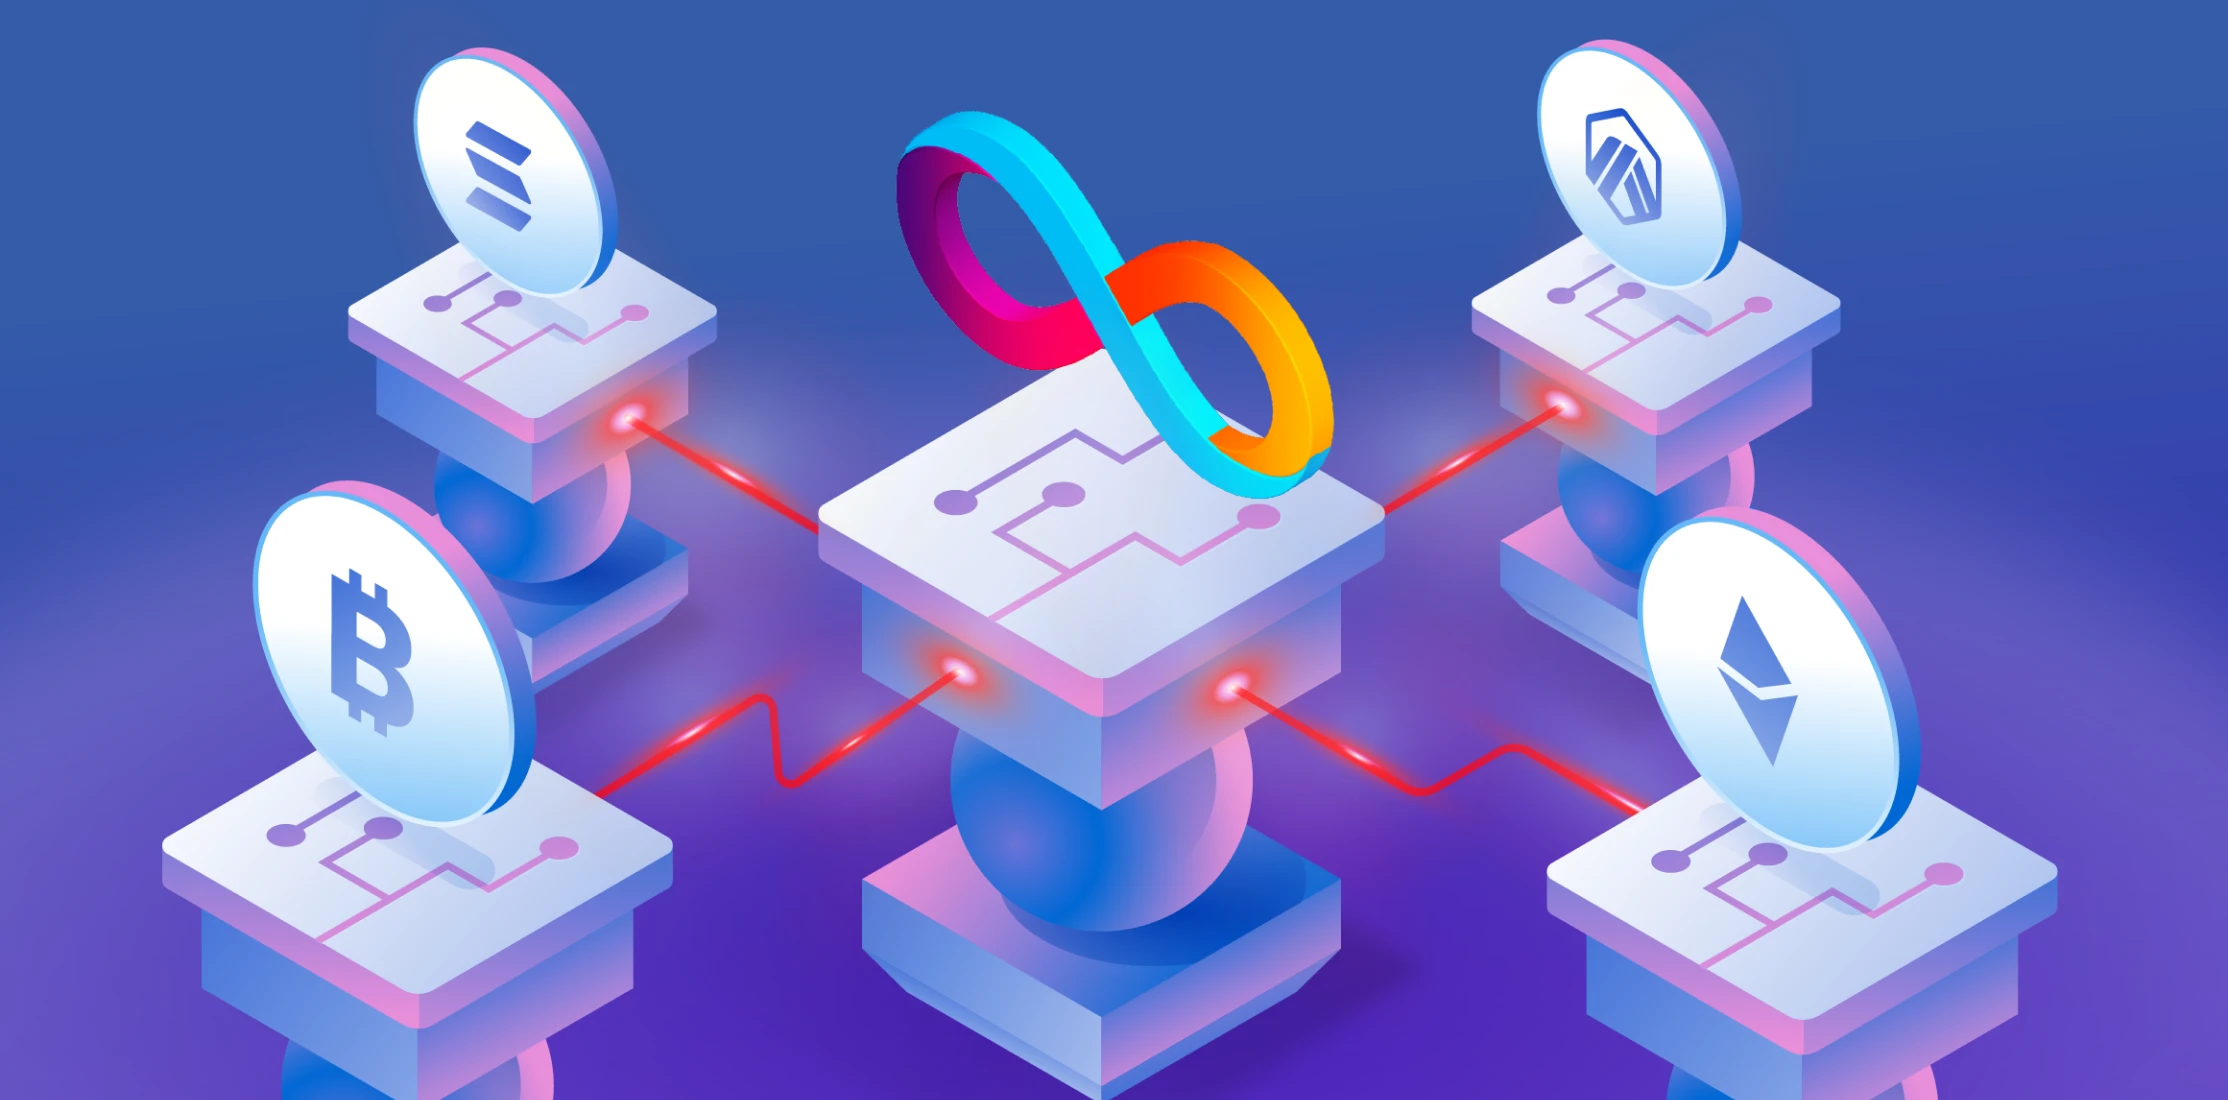
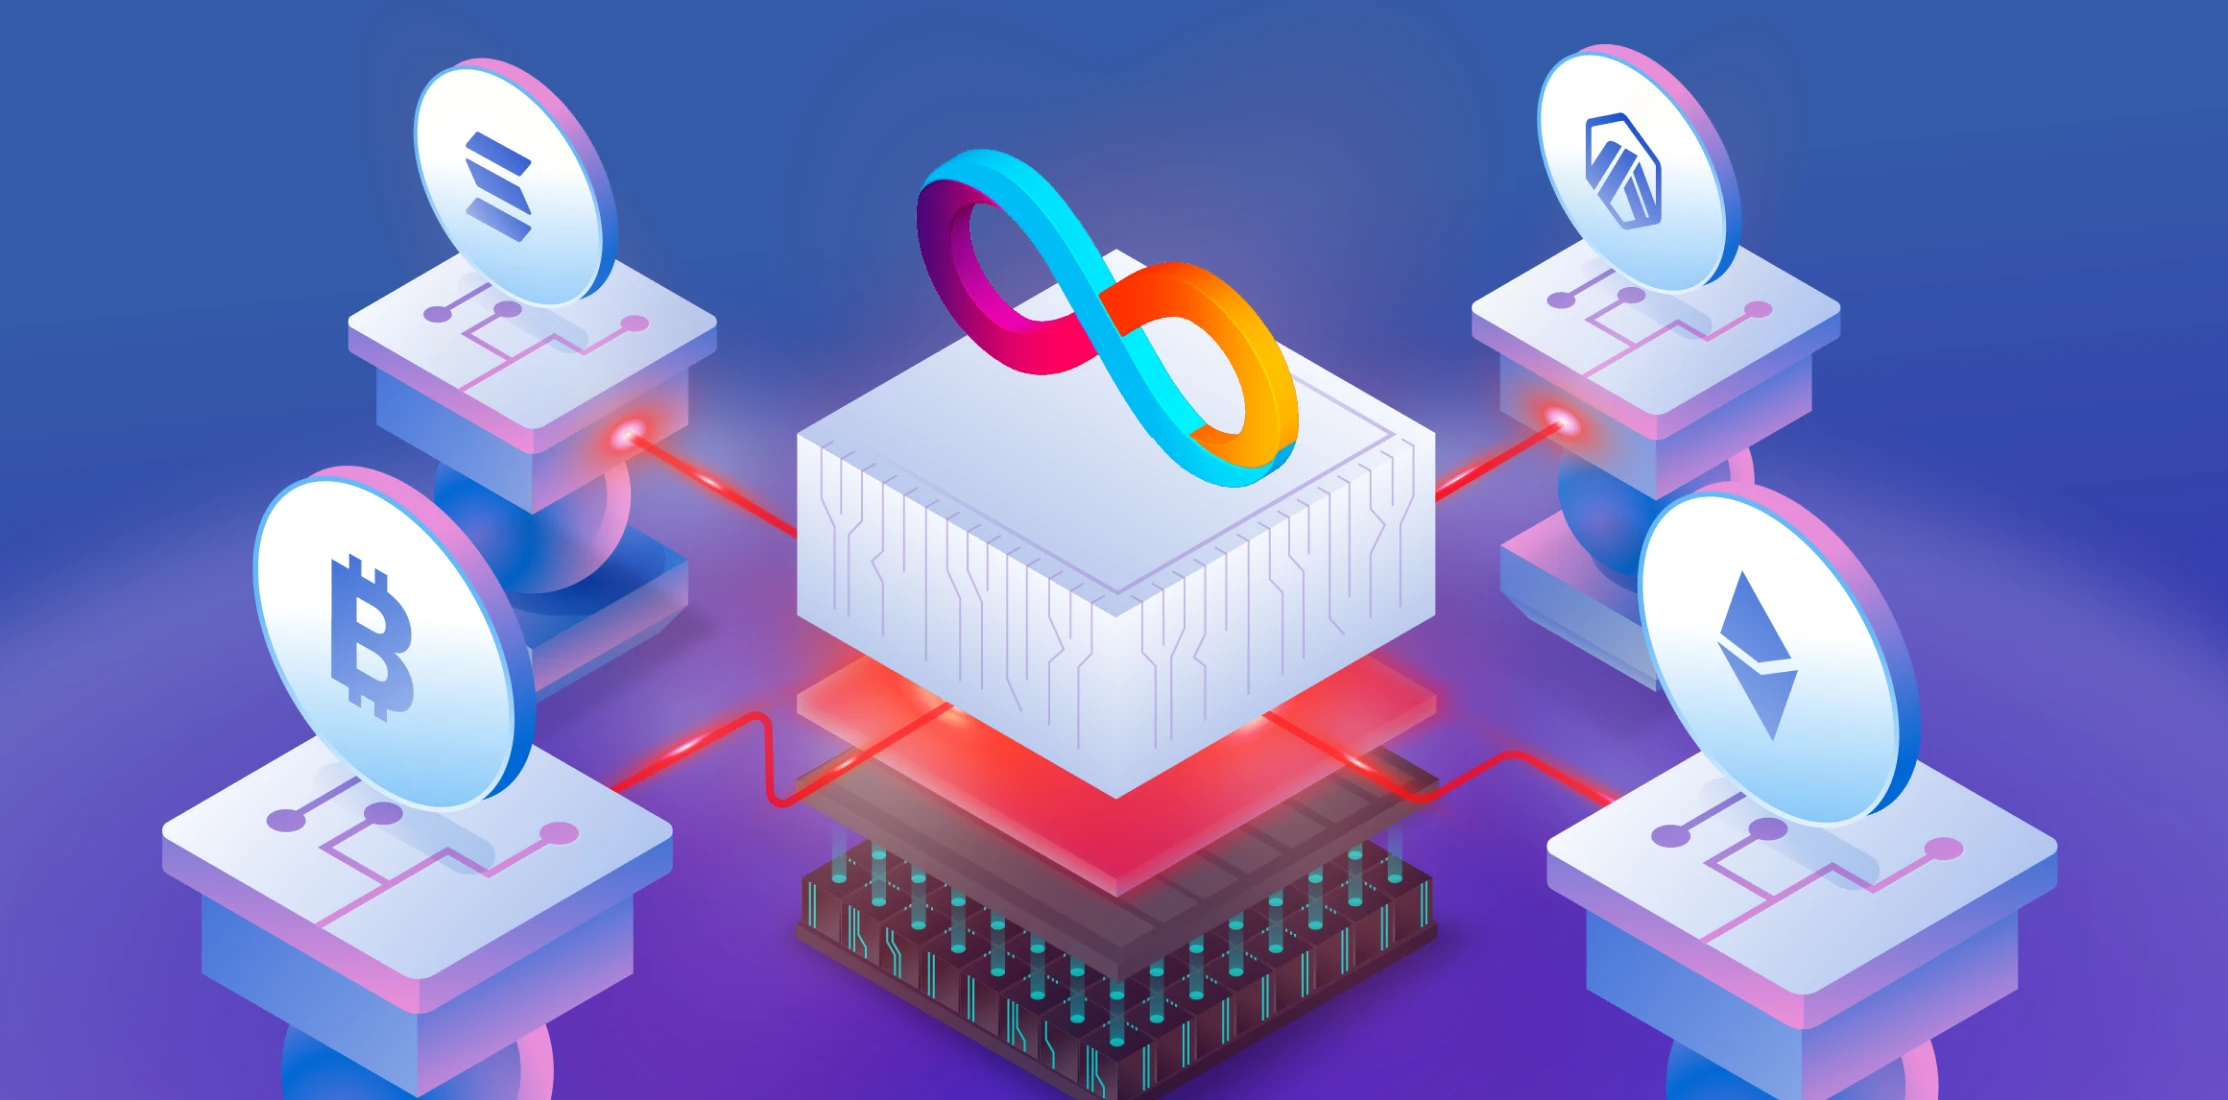
update chainfusion images

diff --git a/src/pages/chainfusion.tsx b/src/pages/chainfusion.tsx
@@ -156,8 +156,7 @@ function MultichainPage() {
       and write to different chains, enabling developers to write smart contracts spanning different chains. This is chain fusion."
       editPath={`https://github.com/dfinity/portal/edit/master/${__filename}`}
     >
-      {/* <ShareMeta image="/img/shareImages/share-multichain.jpg"></ShareMeta> */}
-      <ShareMeta image="/img/multichain/hero3.webp"></ShareMeta>
+      <ShareMeta image="/img/shareImages/share-chainfusion.jpg"></ShareMeta>
 
       <main
         className="text-black relative "
@@ -199,7 +198,7 @@ function MultichainPage() {
                 <img
                   src="/img/multichain/hero3.webp"
                   alt=""
-                  className="w-full h-full object-cover"
+                  className="w-full h-full object-cover rounded-xl"
                 />
               </div>
             </div>
@@ -240,34 +239,34 @@ function MultichainPage() {
               Example Code
             </h2>
             <p className="tw-paragraph md:tw-lead-sm mb-3">
-              To showcase how powerful chain fusion is, here is a simple example that shows 
-              three chains interacting in one smart contract: a{" "}
-                single{" "}
-                <b>
-                  <i>ICP</i>
-                </b>{" "}
-                smart contract that can custody{" "}
-                <b>
-                  <i>Bitcoin</i>
-                </b>{" "}
-                and programmatically trigger sending it based on events observed
-                on a{" "}
-                <b>
-                  <i>Ethereum</i>
-                </b>{" "}
-                DeFi smart contract.
+              To showcase how powerful chain fusion is, here is a simple example
+              that shows three chains interacting in one smart contract: a{" "}
+              single{" "}
+              <b>
+                <i>ICP</i>
+              </b>{" "}
+              smart contract that can custody{" "}
+              <b>
+                <i>Bitcoin</i>
+              </b>{" "}
+              and programmatically trigger sending it based on events observed
+              on a{" "}
+              <b>
+                <i>Ethereum</i>
+              </b>{" "}
+              DeFi smart contract.
             </p>
 
-            
-
             <p className="tw-paragraph md:tw-lead-sm mb-3">
-            This code snippet is written in the&nbsp;
-              <Link 
-                rel="stylesheet" 
+              This code snippet is written in the&nbsp;
+              <Link
+                rel="stylesheet"
                 href="/docs/current/tutorials/developer-journey/level-0/intro-languages/#motoko"
               >
-              Motoko programming language
-              </Link> but is also possible for Rust, TypeScript, Python, and other languages.
+                Motoko programming language
+              </Link>{" "}
+              but is also possible for Rust, TypeScript, Python, and other
+              languages.
             </p>
             <p className="mb-0 mt-8">
               <Link
